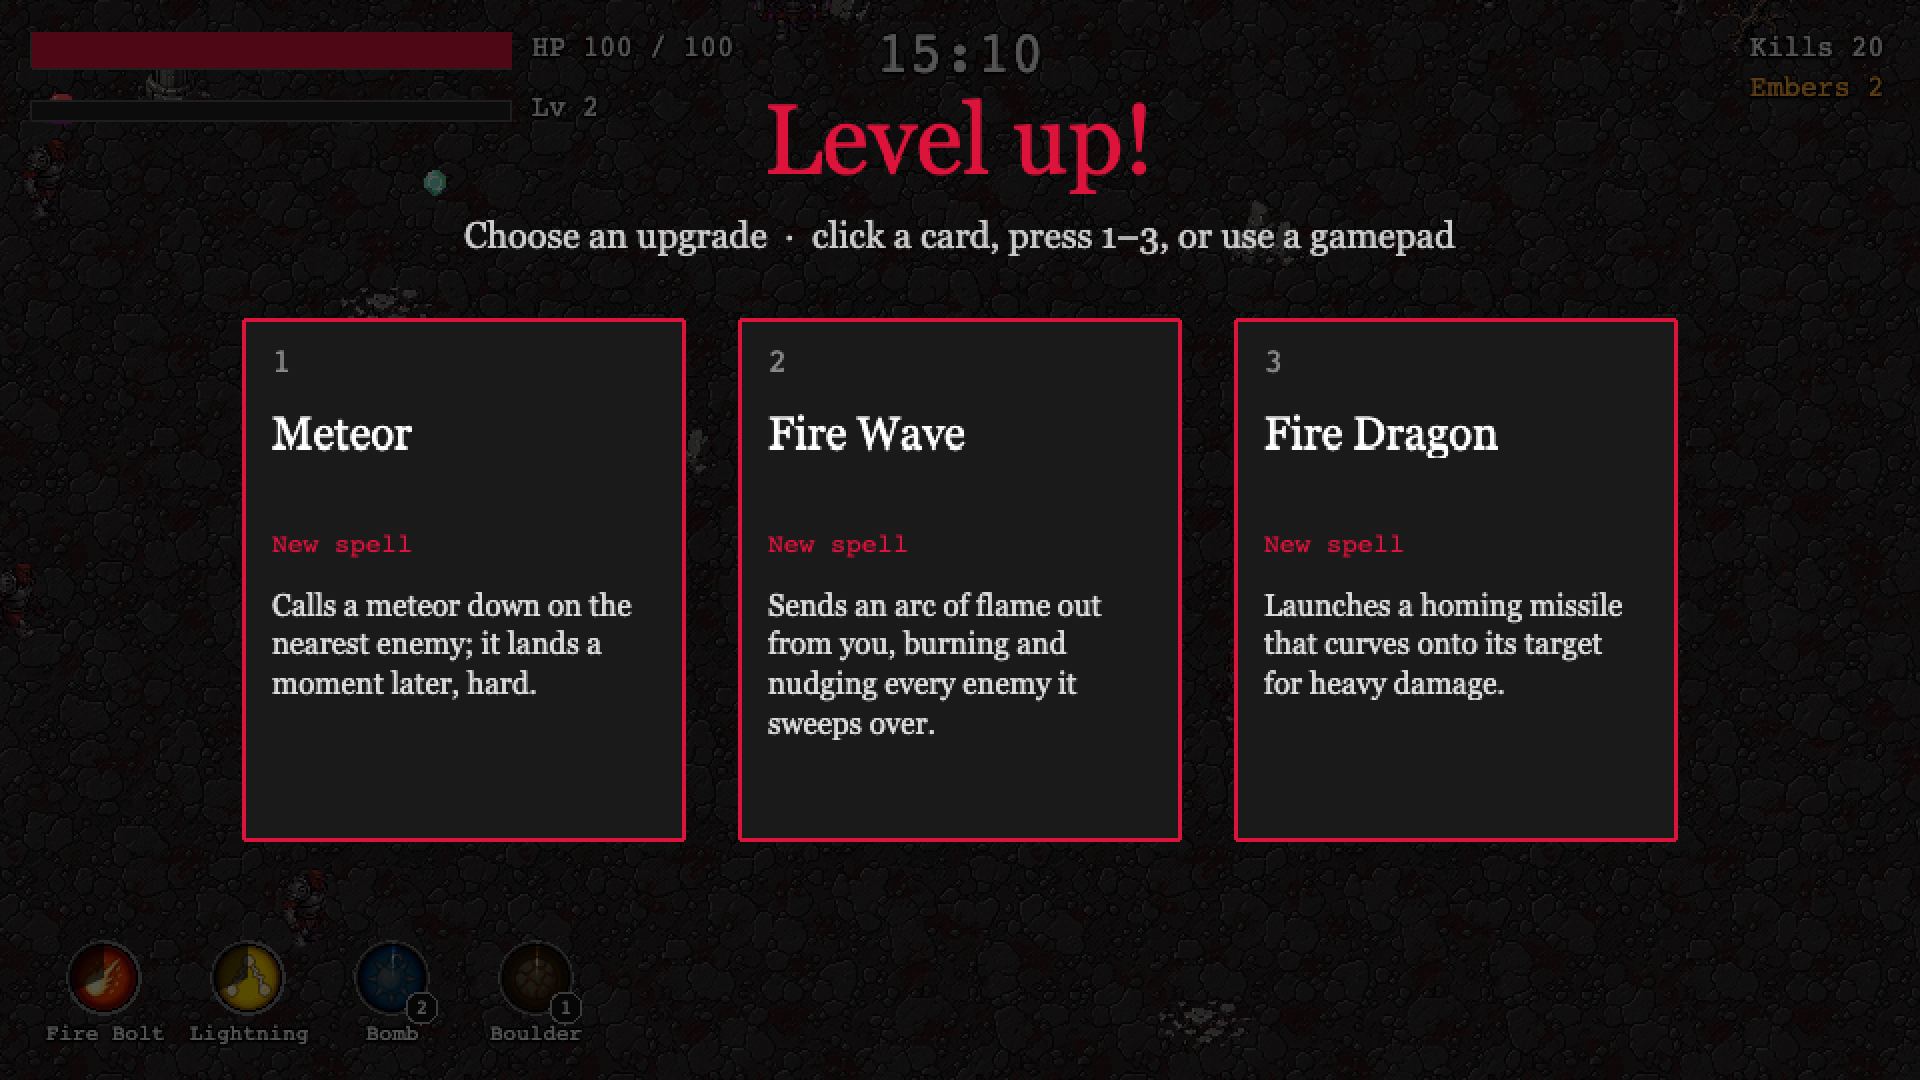
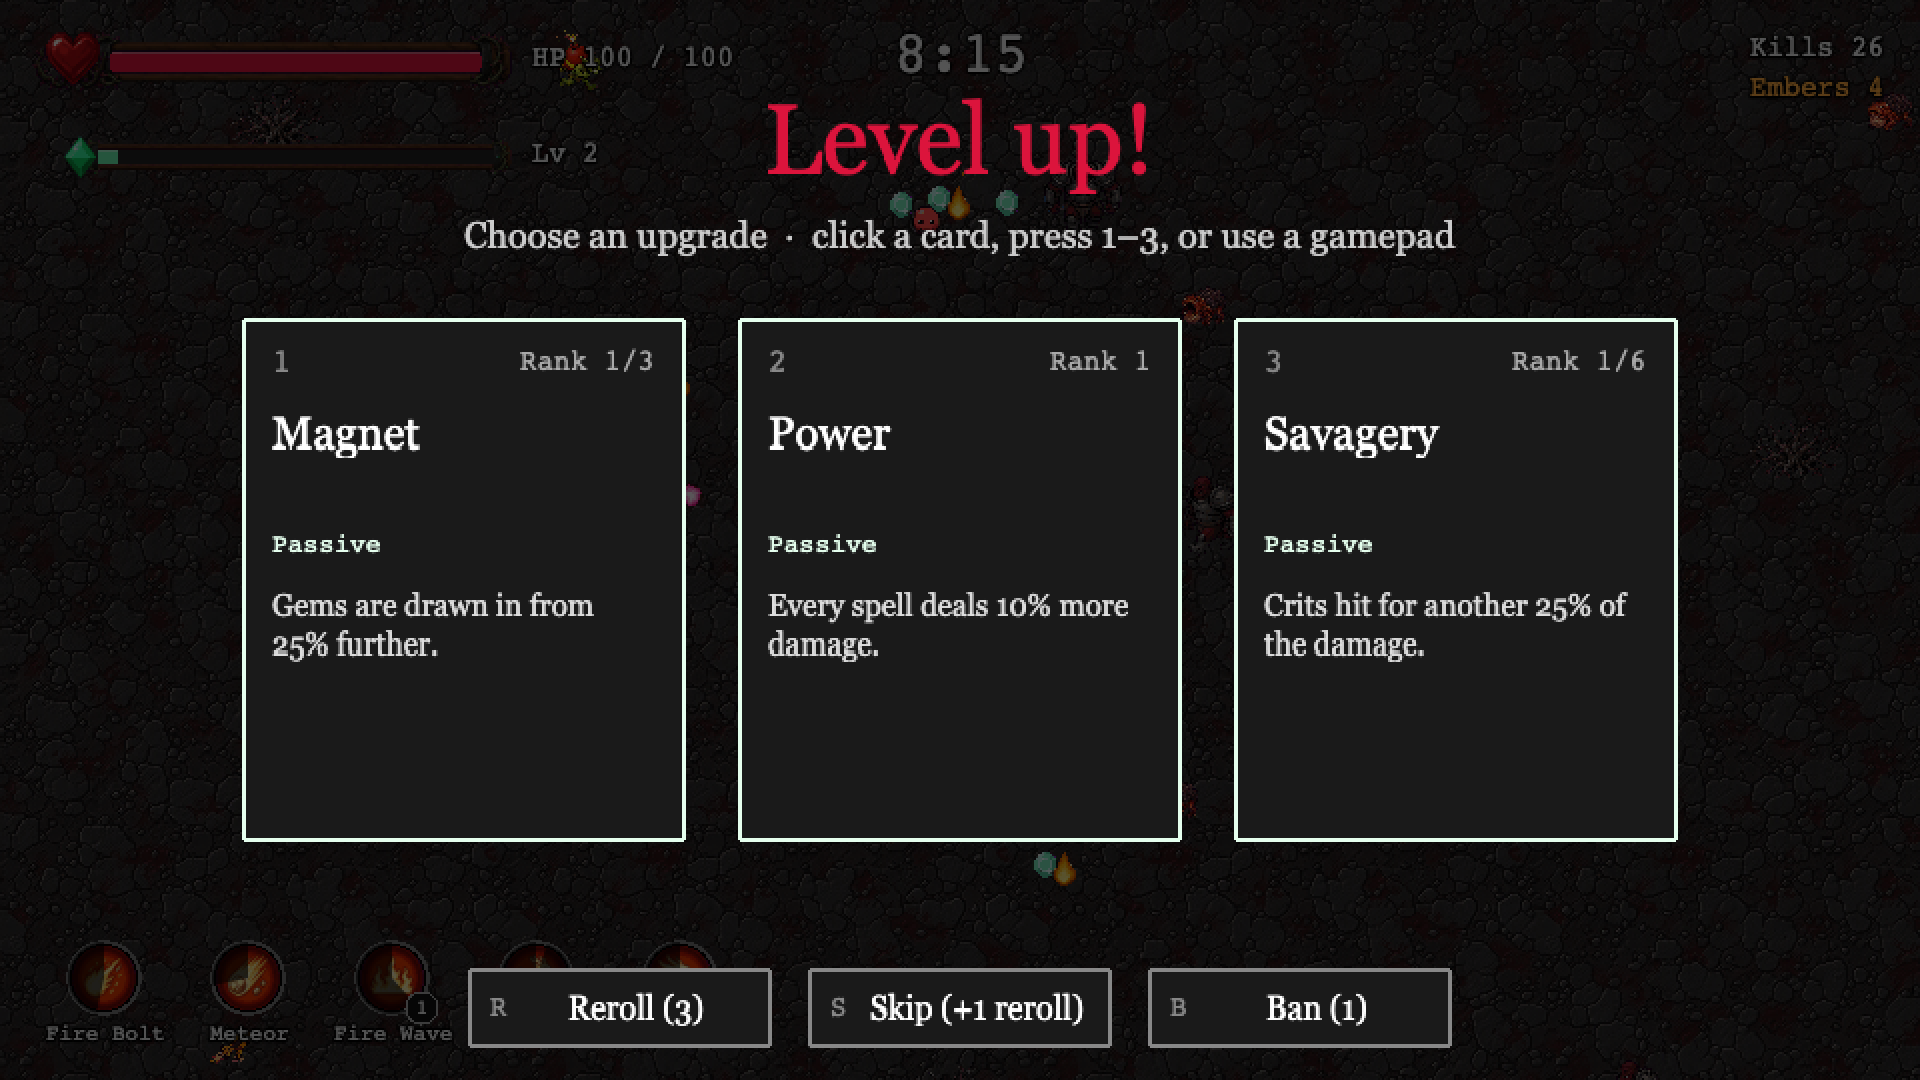
docs: bring the README up to date and refresh its screenshots (CO-186) (#313)
Replace "Phase 1 at a glance" with a summary of the game as it now plays:
the 20-minute run, the element lock and three spell slots, the full
spell roster, passives, relics, enemies, pickups, Embers and upgrades,
and the menus. Add every URL test switch, an Audio section, the current
project layout and the newer specs.

Retake the combat, spell select, level-up and boss screenshots, and add
pause and upgrades.

Closes #311.

diff --git a/README.md b/README.md
@@ -3,43 +3,90 @@
 [![CI](https://github.com/danhquach/crimsononslaught/actions/workflows/ci.yml/badge.svg)](https://github.com/danhquach/crimsononslaught/actions/workflows/ci.yml)
 **Play the latest build:** <https://danhquach.github.io/crimsononslaught/>
 
-A browser-based auto-battler "bullet heaven". You move; your spell fires on
-its own. Survive twenty minutes of escalating waves, then bring down the boss.
+A browser-based auto-battler "bullet heaven". You move; your spells fire on
+their own. Survive twenty minutes of escalating waves, then bring down the boss.
 
-![Five spells casting at once into a late-run crowd](docs/screenshots/combat.png)
+![Lightning Sword, Ice Storm, Frost Nova Bomb, Fire Dragon and companions in a 15-minute crowd](docs/screenshots/combat.png)
 
-| Pick a starting spell                                     | Level up: three cards, pick one                      | The boss                                 |
+| Pick a starting spell                                     | Level up: three cards, pick one                      | The boss at 20:00                        |
 | --------------------------------------------------------- | ---------------------------------------------------- | ---------------------------------------- |
 | ![Spell select screen](docs/screenshots/spell-select.png) | ![Level-up card pick](docs/screenshots/level-up.png) | ![Boss fight](docs/screenshots/boss.png) |
+
+| Pause: the run's spells, passives and relics | Spend Embers on permanent upgrades              |
+| -------------------------------------------- | ----------------------------------------------- |
+| ![Pause screen](docs/screenshots/pause.png)  | ![Upgrades shop](docs/screenshots/upgrades.png) |
+
+The run shots use the `?loadout=` test switch (below), so they show more spells,
+and more elements, than one run carries.
 
 Built with [Phaser 3](https://phaser.io/), TypeScript, and Vite.
 
 ## Status
 
-Phase 1 — design complete, implementation in progress. Tracked as GitHub
-issues under the **Phase 1** milestone.
+Playable end to end: menus, a full 20-minute run with every element's five
+spells, the boss, and meta progression between runs. Open work — balance,
+touch controls, more maps — is tracked as GitHub issues.
 
-## Phase 1 at a glance
+## The game
 
-- One character, one arena, one run of 5:00 ending in a boss fight.
-- Pick one of four spells before the run: **Fire** (fireball, area burst),
-  **Ice** (frost nova, slow), **Lightning** (chain bolt), **Earth** (orbiting
-  boulders).
-- Level up to draw three cards: a second and third spell for the run's two
-  active slots while they are open, then global passives — damage, cooldown,
-  area, crit, survivability — for the rest of the run.
-- Enemy archetypes on a time-based spawn schedule: swarm, fast and tank, then
-  ranged enemies from 6:00 that keep their distance and shoot, exploders from
-  8:00 that blow up on the player, splitters from 10:00 that burst into
-  three splitlings, and shielded enemies from 12:00 that block hits on their
-  front and turn too slowly to stop a player getting behind them. Nine elites
-  join at set times: champions of a type already in the crowd, far tougher,
-  marked by a gold rune circle, and each drops a chest.
-- Seeded runs: `?seed=<n>` reproduces a run exactly; `?timeScale=<n>` speeds
-  it up for testing; `?invulnerable=1` drops every hit so an unattended run
-  reaches the boss; `?enemies=ranged,tank` lets only those types spawn.
-- Dev switches: `?debug=textures` plays every atlas animation in a labelled
-  grid; `?debug=collisions` runs the collision pairs on their own.
+- **One run, twenty minutes.** One hero, one arena. Waves escalate on a fixed
+  schedule and stop at 20:00, when the boss arrives: it chases, stands and
+  flashes, then charges.
+- **Pick an element.** The select screen offers each element's default spell —
+  **Fire Bolt**, **Ice Arrow**, **Lightning Bolt** or **Earth Spike** — and the
+  run stays in that element.
+- **Three active slots.** The default spell fills the first; the second and
+  third unlock at levels 2 and 5 and draw from the element's other four spells:
+
+  | Element   | Default        | Other spells                                                   |
+  | --------- | -------------- | -------------------------------------------------------------- |
+  | Fire      | Fire Bolt      | Meteor, Fire Wave, Fire Companion, Fire Dragon                 |
+  | Ice       | Ice Arrow      | Frost Nova Bomb, Ice Shield, Ice Companion, Ice Storm          |
+  | Lightning | Lightning Bolt | Chain Lightning, Tornado, Lightning Companion, Lightning Sword |
+  | Earth     | Earth Spike    | Boulder, Earth Shield, Earthquake, Earth Companion             |
+
+- **Level-ups.** Each level draws three cards: new spells while a slot is open,
+  then 14 ranked passives for the rest of the run (damage, cooldown, area,
+  projectile speed, duration, crit, damage taken, move speed, max HP,
+  regeneration, gem pull, XP, Pierce). **Reroll**, **Skip** (earns a reroll)
+  and **Ban** reshape an offer.
+- **Relics.** Eight relics lie around the arena. Touching one pauses the run
+  on three cards, mostly relic buffs that last the rest of the run, sometimes
+  extra rerolls or bans.
+- **Enemies.** Swarm from the start, fast from 2:00 and tank from 4:00; ranged
+  enemies from 6:00 keep their distance and shoot, exploders from 8:00 blow up on the player,
+  splitters from 10:00 burst into three splitlings, and shielded enemies from
+  12:00 block hits on their front. Nine elites join at set times: champions of
+  a type already in the crowd, far tougher, marked by a gold rune circle, and
+  each drops a chest.
+- **Pickups.** XP gems, Embers, and rare consumables: health, a magnet that
+  pulls every gem in, a bomb that blasts the screen, and the elites' chests,
+  which pay out Embers.
+- **Between runs.** Embers buy permanent upgrades in the **Upgrades** shop,
+  reached from the spell select screen (max HP, damage, cooldown, move speed,
+  XP; a first win unlocks less damage taken). **Profile** keeps a player name and lifetime stats,
+  **Settings** holds master and music volume, mute, damage numbers, hit-stop
+  and screen shake, and **Help** explains every pickup, lists what's new and
+  sends feedback. Progress is saved in the browser.
+- **In a run.** Esc (or Start on a pad) pauses on the build summary, with
+  Resume, Restart, End run and Main menu. Closing the tab mid-run asks first.
+- **Sound.** Synthesised and recorded sound effects, a menu theme, and a run
+  track and a boss track drawn from two of each per run.
+
+### Test and dev switches
+
+URL parameters, read in the deployed build as well as in dev:
+
+| Parameter           | Effect                                                            |
+| ------------------- | ----------------------------------------------------------------- |
+| `?seed=<n>`         | Reproduces a run exactly (on the same build and machine)          |
+| `?timeScale=<n>`    | Multiplies the run clock                                          |
+| `?startAt=<s>`      | Starts the run clock late, e.g. `?startAt=1190` for the boss      |
+| `?invulnerable=1`   | Drops every hit, so an unattended run reaches the boss            |
+| `?loadout=<ids>`    | Equips extra spells by id, e.g. `?loadout=fire_meteor,ice_shield` |
+| `?enemies=<types>`  | Lets only those types spawn, e.g. `?enemies=ranged,tank`          |
+| `?debug=textures`   | Plays every atlas animation in a labelled grid                    |
+| `?debug=collisions` | Runs the collision pairs on their own                             |
 
 ## Controls
 
@@ -79,24 +126,24 @@ from the `FEEDBACK_ACCESS_KEY` Actions secret.
 ## Project layout
 
 ```
-src/config/   tunable data: spells, loadout, passives, meta (upgrades, milestones, currency), enemies, waves, boss, progression, player, gems, animations, FX
-src/core/     pure game logic, no engine imports, unit-tested: run state, loadout, level-up offers, spawn director, spell math, save schema and upgrade shop
-src/scenes/   Boot, Intro, Settings, Profile, SpellSelect, Upgrades, Game, HUD, LevelUp, Result, two dev-only debug scenes
-src/entities/ Player, Enemy, Boss, XpGem, Projectile, Boulder
+src/config/   tunable data: spells and the four element rosters, loadout, passives, relics, meta (upgrades, milestones, currency), enemies, waves, boss, pickups, sounds, changelog, animations, FX
+src/core/     pure game logic, no engine imports, unit-tested: run state, loadout, level-up and relic offers, spawn director, spell math, save schema and upgrade shop, HUD / pause / help view-models
+src/scenes/   Boot, Intro, Settings, Profile, Help, SpellSelect, Upgrades, Game, HUD, LevelUp, Pause, Result, two dev-only debug scenes
+src/entities/ Player, Enemy, Boss, Companion, XpGem, Pickup, Projectile, HomingProjectile, EnemyShot, Boulder, ShieldAura
 src/spells/   one Phaser-side class per spell over its `src/core/` math, plus the damage sink
-src/systems/  Phaser-side wrappers: spawn director, collisions, enemy / gem / FX / overlay pools
-src/render/   texture-key layer: sprite atlas, animation playback, placeholder shapes as fallback
+src/systems/  Phaser-side wrappers: spawn director, collisions, and the enemy / shot / gem / pickup / area / FX / overlay / damage-number pools
+src/render/   texture-key layer: sprite atlas, animation playback, placeholder shapes as fallback; audio playback
 src/storage/  the one `localStorage` adapter; core never imports it
-scripts/      art pipeline (`npm run art:cut`)
-docs/         design spec, ticket list, tuning notes, art sheets + manifest
+scripts/      art pipeline (`npm run art:cut`) and audio pipeline (`npm run audio:gen`, `npm run audio:cut`)
+e2e/          Playwright browser suites
+docs/         design specs and plans, ticket list, tuning notes, art sheets + manifest, screenshots
 ```
 
 ## Rendering and the art pipeline
 
 Nothing in the game references an image file. Every visual asks for a
-**texture key** (`player`, `enemy_swarm`, `enemy_fast`, `enemy_tank`, `boss`,
-`gem`, `proj_fire`, `fx_nova`, `fx_bolt`, `boulder`), typed as `TextureKey`
-in `src/config/colors.ts`.
+**texture key** (`player`, `enemy_swarm`, `boss`, `gem`, `pickup_relic` and so
+on), typed as `TextureKey` in `src/config/colors.ts`.
 
 At boot, `src/render/atlas.ts` loads the sprite atlas and points each texture
 key at a still frame from it; `src/render/textures.ts` then generates a
@@ -177,6 +224,15 @@ RGBA buffers, unit-tested on synthetic pixel buffers in `spriteCut.test.mjs`.
 against both the manifest and the generated atlas by `animations.test.ts`, so
 the three cannot drift apart.
 
+## Audio
+
+Every clip lives in `public/assets/audio/`, keyed by `src/config/sounds.ts`.
+`npm run audio:gen` synthesises the effects and music loops from the recipes in
+`scripts/gen-audio.mjs` and `scripts/lib/music.mjs`, byte-for-byte
+reproducibly. A few effects are recorded clips instead: `npm run audio:cut --
+<dir>` checks each original against its pinned hash and cuts it to game length
+(needs ffmpeg on the PATH). Licences are in `public/assets/audio/CREDITS.md`.
+
 ## CI and deployment
 
 Every pull request runs `npm run lint`, `npm test`, `npm run build`, and the
@@ -191,6 +247,9 @@ lint/test/build job does not depend on it.
 
 - Design spec (Phase 1): [`docs/superpowers/specs/2026-09-14-phase1-design.md`](docs/superpowers/specs/2026-09-14-phase1-design.md)
 - Design spec (Phase 2 — loadout, passives, spell roster): [`docs/superpowers/specs/2026-09-18-phase2-spells.md`](docs/superpowers/specs/2026-09-18-phase2-spells.md)
+- Design spec (the 20-minute run — pickups, relics, Embers): [`docs/superpowers/specs/2026-09-23-twenty-minute-run-design.md`](docs/superpowers/specs/2026-09-23-twenty-minute-run-design.md)
+- Spell reworks: [Meteor](docs/superpowers/specs/2026-09-26-meteor-rework-design.md), [Frost Nova Bomb](docs/superpowers/specs/2026-09-28-frost-nova-bomb-rework-design.md)
+- Tuning notes: [`docs/tuning/`](docs/tuning/)
 - Ticket list: [`docs/tickets/phase1-tickets.md`](docs/tickets/phase1-tickets.md)
 - Contributor workflow rules: [`CLAUDE.md`](CLAUDE.md)
 
